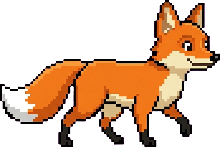
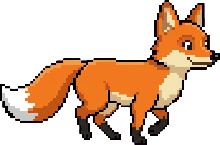
Remove all foliage; give the fox a real 2-frame walk cycle

diff --git a/index.html b/index.html
@@ -416,8 +416,6 @@
   #v-more .gsearch{margin-top:4px}
   .gloss-hint{font-size:12.5px;color:var(--ink3);line-height:1.55;padding:18px 6px;text-align:center}
   .gloss-hint b{color:var(--ink2);font-family:var(--mono)}
-  /* realistic foliage (nano-banana assets) creeping onto random card borders */
-  .vine-deco{position:absolute;z-index:6;pointer-events:none;opacity:.93;filter:drop-shadow(0 2px 3px rgba(0,0,0,.45));transform-origin:center}
 </style>
 </head>
 <body>
@@ -1099,9 +1097,9 @@ boot();
     else if(mode==='walk'){
       x+=dir*SPEED*dt;
       if(x>=maxX){x=maxX;dir=-1;} else if(x<=minX){x=minX;dir=1;}
-      if(t-stepT>190){ stepT=t; frame^=1; }
+      if(t-stepT>165){ stepT=t; frame^=1; }
       setSrc(WALK[frame]);
-      bob = frame ? -1.5 : 0;                                         // little 2-step gait bob
+      bob = frame ? -2.5 : 0;                                         // body lifts on the gathered/passing frame → bouncy trot
       if(!modeUntil) modeUntil=t+4000+Math.random()*6000;
       if(t>modeUntil){ mode='sit'; modeUntil=t+3000+Math.random()*5000; }
     } else {                                                          // sitting
@@ -1116,43 +1114,6 @@ boot();
   document.addEventListener('visibilitychange',()=>{ last=0; });      // avoid a dt spike after the tab was hidden
 })();
 
-/* ════════ realistic foliage — scatter nano-banana vine/leaf assets onto random card borders ════════ */
-(function(){
-  const ASSETS=[
-    {src:'img/vine-corner.png', kind:'corner', wmin:94, wmax:122},
-    {src:'img/sprig.png',       kind:'corner', wmin:46, wmax:64},
-    {src:'img/vine-hang.png',   kind:'hang',   wmin:30, wmax:44},
-  ];
-  const SEL='.mcard,.chartcard,.pcard,.newsrow,.mktrow,.ftab-panel,.phero,.bestcard,.note';
-  function hsh(s){let h=2166136261;for(let i=0;i<s.length;i++){h^=s.charCodeAt(i);h=Math.imul(h,16777619);}return h>>>0;}
-  function decorate(){
-    document.querySelectorAll(SEL).forEach((c,i)=>{
-      if(c.dataset.vine!==undefined) return;                 // decided already (stable per element)
-      const h=hsh((c.textContent||'').slice(0,50)+'|'+i+'|'+(''+c.className).slice(0,24));
-      if(h%100>=26){ c.dataset.vine='0'; return; }           // ~26% of cards get foliage
-      c.dataset.vine='1';
-      const a=ASSETS[h%ASSETS.length], w=a.wmin+((h>>4)%(a.wmax-a.wmin+1)), rot=((h>>7)%9)-4;
-      const img=document.createElement('img');
-      img.className='vine-deco'; img.alt=''; img.src=a.src; img.style.width=w+'px';
-      if(getComputedStyle(c).position==='static') c.style.position='relative';
-      c.style.overflow='visible'; c.style.zIndex='1';        // let the vine overhang neighbours
-      if(a.kind==='hang'){                                  // drape down the RIGHT edge, below the date row
-        img.style.right='-12px'; img.style.top=(24+((h>>2)%16))+'%';
-        img.style.transform='rotate('+rot+'deg)';
-      } else {
-        const k=[2,3][h%2], ov=12;                          // BR / BL only — clear of titles (TL) and dates (TR)
-        img.style.transform=['','','scale(-1,-1)','scaleY(-1)'][k]+' rotate('+rot+'deg)';
-        if(k===2){img.style.bottom=-ov+'px';img.style.right=-ov+'px';}
-        else{img.style.bottom=-ov+'px';img.style.left=-ov+'px';}
-      }
-      c.appendChild(img);
-    });
-  }
-  const main=document.querySelector('main'); let t;
-  const obs=new MutationObserver(()=>{ clearTimeout(t); t=setTimeout(()=>{ obs.disconnect(); decorate(); obs.observe(main,{childList:true,subtree:true}); }, 90); });
-  decorate();
-  obs.observe(main,{childList:true,subtree:true});
-})();
 </script>
 </body>
 </html>

diff --git a/HANDOFF.md b/HANDOFF.md
@@ -5,6 +5,36 @@ Resume command: `/ai`. Local: `localhost:8095`. Full design: [ARCHITECTURE.md](A
 
 ## State — Jun 19 2026
 
+### ✓ DONE (Jun 19, session 19) — removed all foliage; gave the fox a real walk cycle
+(1) **Removed ALL vines/branches** per his call — deleted the `decorate()` foliage IIFE + `.vine-deco` CSS + the
+3 vine PNGs (`git rm` vine-corner/vine-hang/sprig). Verified 0 `.vine-deco`, no 404s, no console errors.
+(2) **Fox walk now actually animates.** The old `fox-walk-b` was ~identical to `-a` (the model barely moved the
+legs) so the 2-frame swap showed no motion. Regenerated `fox-walk-b` via nano-banana as a distinct **passing pose**
+(legs gathered under the body, lifted) using `-a` as the style reference — confirmed visibly distinct (stride vs
+gathered). Controller tuned: frame cadence 190→**165ms**, gait bob -1.5→**-2.5px** (body lifts on the passing
+frame → bouncy trot). Walk reads animated on a foreground tab (rAF still pauses when hidden). **Redeployed via
+`git push`** (site is live at polishcow31.github.io/polishbotany).
+
+### ✓ DONE (Jun 19, session 18) — RENAMED to Botany · PUBLISHED · walking fox
+**(1) Renamed Robots → Botany.** `<title>`/apple-title/`<h1>`/manifest name+short_name = "Botany"; logo+favicon
+swapped from the chart-line to a green leaf glyph; manifest theme/bg → `#0b140f`.
+**(2) PUBLISHED (he gave the go).** New PUBLIC repo **github.com/PolishCow31/polishbotany** (created via Chrome —
+token still can't, 403). Committed all pending work to `main`, `git push` via the osxkeychain cred (worked), enabled
+Pages via Chrome (Settings▸Pages → Deploy from branch `main` `/ (root)` → Save). **Live (unlisted): https://polishcow31.github.io/polishbotany/**
+(robots.txt `Disallow:/` + noindex meta both present). Added `.gitignore` for the local backups (`index.html.bak-*`,
+`*.matrix-shelved`, `_delta.json`, `*-raw.jpeg`). First Pages build takes ~1-2 min. **Re-deploy now = `git push`.**
+**(3) Fox rebuilt** to walk + sit. Three nano-banana pixel sprites (`img/fox-walk-a/b.png`, `fox-sit.png` — finer
+pixels, "more real"; keyed via the magenta PIL workflow, nearest-resized to preserve pixels). New element = an
+`<img id="fox-img">` (not the SVG rects). Controller (rAF in the effects script): the fox **ambles** left↔right along
+the **top edge of the overview** (feet on `.hero`'s top border, tracked each frame via `getBoundingClientRect`),
+**flips** to face its direction, alternates the 2 walk frames + a gait bob, and **randomly sits** (swaps to the sit
+sprite, pauses 3-8s) then resumes. Added `#v-home .hero{margin-top:54px}` to open a walking band ABOVE the card so
+the fox is on-top-not-inside and **never overlaps the "OVERVIEW" words** (it sits in the band below the vh). rAF
+pauses when the tab's hidden (so it looked frozen in the headless verify tab — it's correct; runs on a foreground
+tab). Verified: rename live, fox positions on the rim clear of OVERVIEW (geometry + screenshot), data intact, zero
+console errors. Backup before this: `index.html.bak-prevines` (pre-fox-sprites work is in git history).
+**NEXT per his plan: keep perfecting UI, then perfect the routines (install the 6am/6pm launchd updater — still not installed), then done.**
+
 ### ✓ DONE (Jun 19, session 17) — realistic foliage on random card borders (replaced the bad SVG branches)
 He called the bottom SVG branches "done poorly" (a cheap stroke-path fake — exactly what [[feedback_realistic_visuals]]
 warns against) and asked for "mostly realistic branches/vines/leaves on random borders." **Removed the `#roots`
